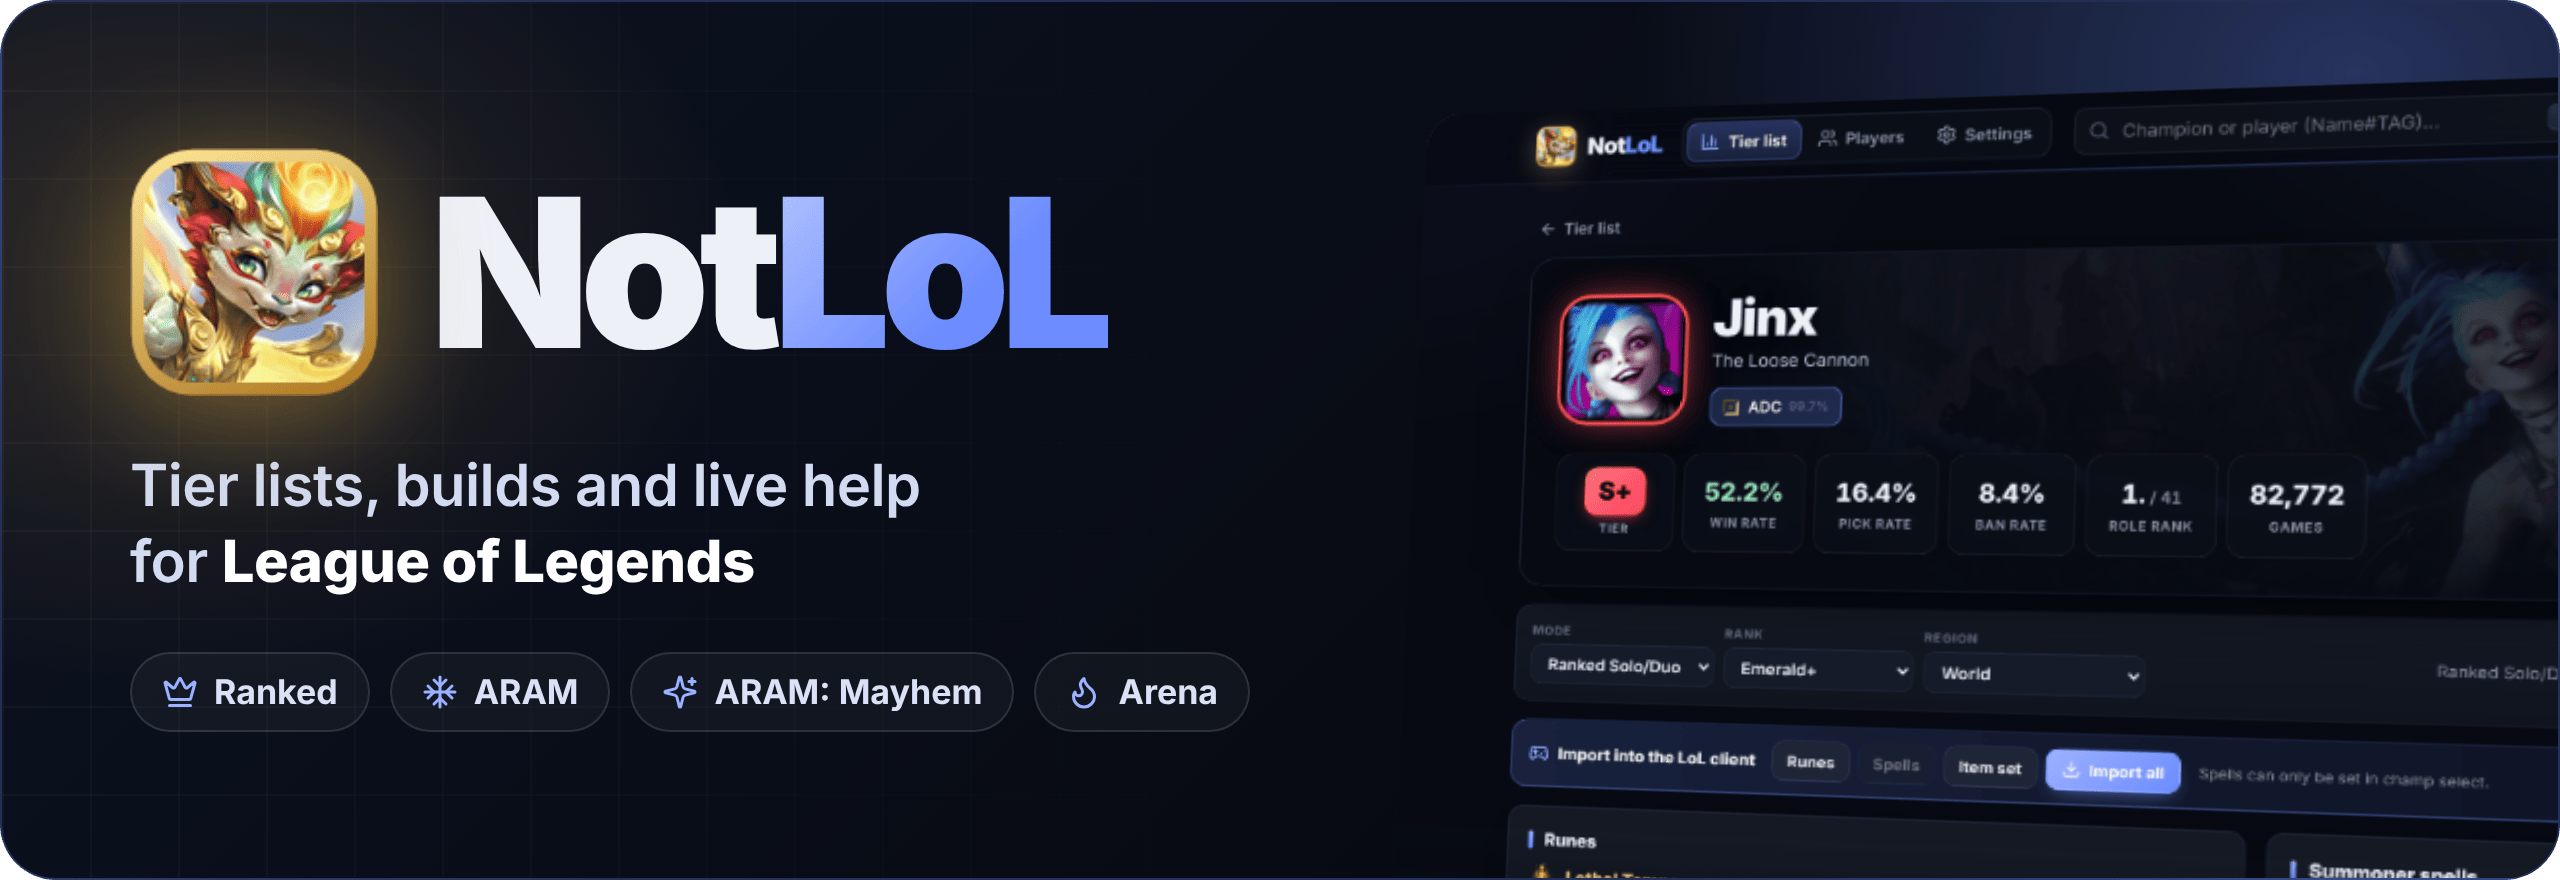
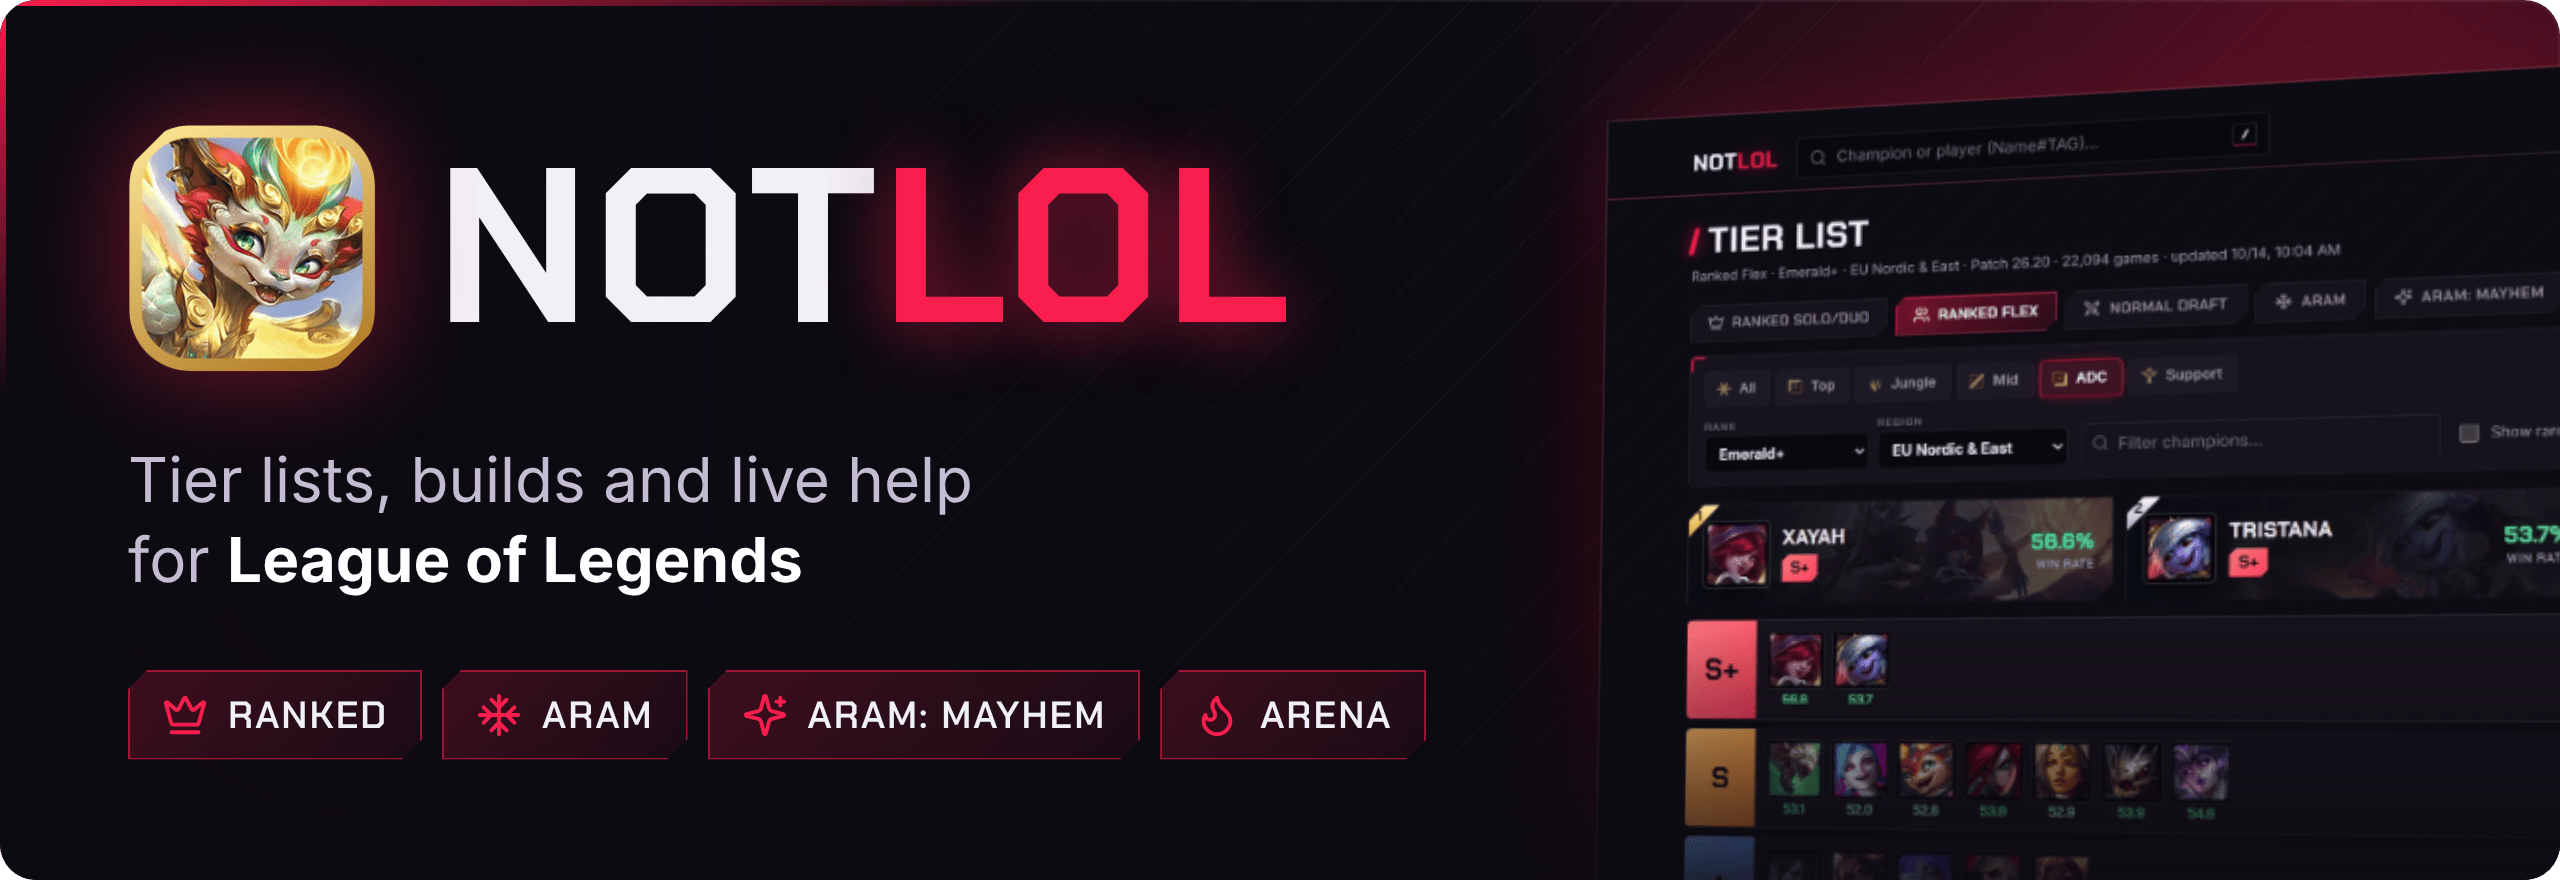
README: pictures in the new look
- New banner in the gaming-browser style (logo, neon wordmark, modes
  and a tier list screenshot in perspective).
- Tier list (tier view), tier table and settings show the new look; the
  table replaces the old ARAM: Mayhem tier view (tiers.png).
- New "Player profiles" section with a profile and the match history;
  the player lookup text moves there from "Stays out of your way".
  Teammates' names are blurred.

Champion page, Arena, champ select and in-game panel pictures still
show the old look.

Claude-Session: https://claude.ai/code/session_01SUXYWK4WgduqoTLAQC1knU

diff --git a/README.md b/README.md
@@ -24,7 +24,7 @@
   <a href="#-faq">FAQ</a>
 </p>
 
-![NotLoL tier list for Ranked Solo/Duo](docs/images/tier-list.png)
+![NotLoL tier list for Ranked Flex ADC in the tier view](docs/images/tier-list.png)
 
 ## ✨ What's inside
 
@@ -32,7 +32,7 @@
 
 Ranked Solo/Duo, Flex, Normal Draft, ARAM, ARAM: Mayhem and Arena – always for the newest patch. Pick your rank and region, sort by win rate, pick rate or ban rate, see who counters whom, or switch to the classic tier view.
 
-![Tier view for ARAM: Mayhem](docs/images/tiers.png)
+![Tier list table with win, pick and ban rates, KDA and counters](docs/images/tier-table.png)
 
 ### 🧩 Builds, runes and matchups – imported in one click
 
@@ -60,9 +60,17 @@ NotLoL opens your champion's build as soon as you pick it. In ARAM it shows whet
 
 ![In-game panel (Ctrl+X), shown with preview data](docs/images/ingame-panel.png)
 
+### 🔎 Player profiles
+
+Look up any player by Riot ID: their rank, the roles and game modes they play, who they play with most, their champion mastery and stats like damage per minute or kill participation. Click any match in their history to see every player's damage, gold, CS, vision and items, or compare up to 5 players side by side. Your own profile sits in the top right corner.
+
+![Player profile with ranks, roles, game modes, teammates and stats](docs/images/profile.png)
+
+![Last 20 games and match history](docs/images/matches.png)
+
 ### ⚙ Stays out of your way
 
-NotLoL starts quietly with Windows and waits in the tray, updates itself, speaks Czech, Slovak, English, German and Polish, and comes in a dark gaming look with eight neon accent colors. While you're not playing, it sleeps in the tray and barely uses your PC. It keeps an hourly backup of all its data, so it keeps working even when a data source goes down. You can also look up any player by Riot ID: see the roles and game modes they play, who they play with most, their champion mastery and stats like damage per minute or kill participation, and click any match in their history to see every player's damage, gold, CS, vision and items. Up to 5 players can be compared side by side. Your own profile sits in the top right corner.
+NotLoL starts quietly with Windows and waits in the tray, updates itself, speaks Czech, Slovak, English, German and Polish, and comes in a dark gaming look with eight neon accent colors. While you're not playing, it sleeps in the tray and barely uses your PC. It keeps an hourly backup of all its data, so it keeps working even when a data source goes down.
 
 ![Settings](docs/images/settings.png)
 
